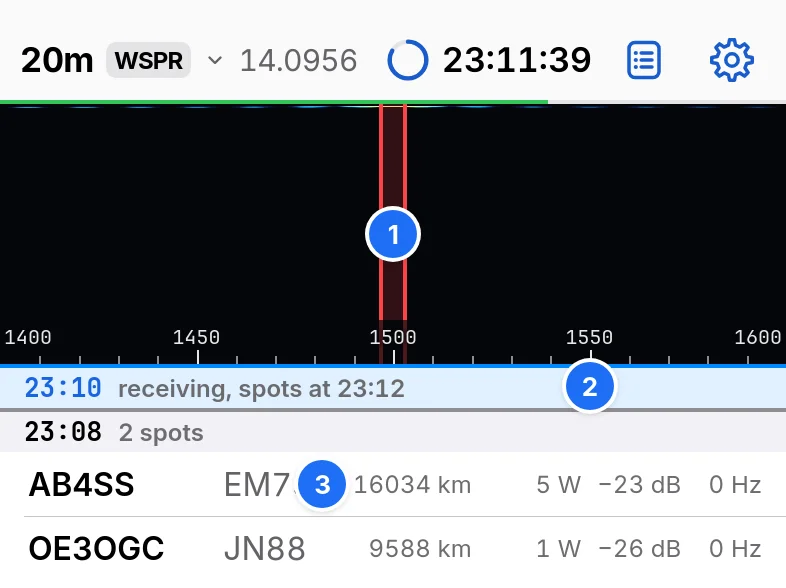
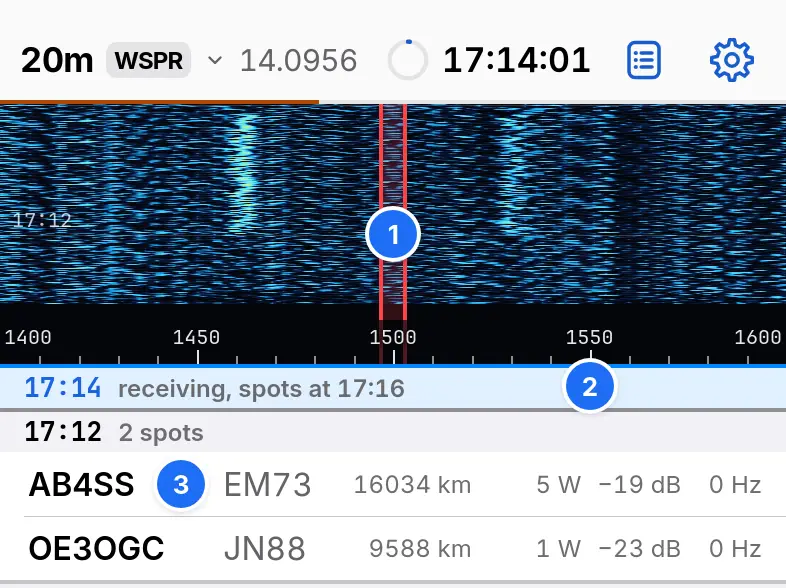
Fill the guide's Operate and WSPR waterfalls with played signals
The e2e hook playStations plays FT8 and WSPR messages through the practice input, so the screenshots show real traces. Guide images may now reach 64 kB, and the precache budget rises to 3.7 MB.

diff --git a/web/e2e/guide-shots.spec.ts b/web/e2e/guide-shots.spec.ts
@@ -18,7 +18,7 @@ const IMG = fileURLToPath(new URL('../../docs/guide/img/', import.meta.url));
 /** The same captures as PNG, without circles, for choosing where they go. */
 const RAW = fileURLToPath(new URL('../test-results/screens/guide-raw/', import.meta.url));
 /** The largest file the guide takes, bytes (guide.test.ts). */
-const MAX_BYTES = 40_000;
+const MAX_BYTES = 64_000;
 
 const STATION = { callsign: '9V1NE', grid: 'OJ11', freqPicked: true };
 
@@ -213,16 +213,24 @@ test('Making QSOs: the transmit controls and status line in a QSO under way', as
 });
 
 test('Operate: the waterfall and the decode list', async ({ page }) => {
-  test.setTimeout(120_000);
+  test.setTimeout(180_000);
   await openApp(page, '#/operate', { txHz: 1500, rxHz: 1840 });
+  // The stations play through the practice band's audio path: the waterfall shows their traces
+  // and the decoder decodes them.
+  await page.evaluate(
+    ([even, odd]) =>
+      window.__rr73!.playStations([
+        ...even.map((x) => ({ text: x.text, freqHz: x.freq_hz, snrDb: x.snr_db, dtS: x.dt_s, parity: 'even' as const })),
+        ...odd.map((x) => ({ text: x.text, freqHz: x.freq_hz, snrDb: x.snr_db, dtS: x.dt_s, parity: 'odd' as const })),
+      ]),
+    [SLOT_EVEN, SLOT_ODD] as const,
+  );
   await startAudio(page);
-  // A few seconds of waterfall from the mock microphone, then the decodes.
-  await page.waitForTimeout(6000);
-  const now = await phase(page, 2, 10);
-  await inject(page, now - 2 * SLOT, SLOT_EVEN);
-  await inject(page, now - SLOT, SLOT_ODD);
   const toYou = rowOf(page, '9V1NE OE3OGC JN88');
-  await expect(toYou).toBeVisible();
+  await expect(toYou).toBeVisible({ timeout: 90_000 });
+  await expect(rowOf(page, 'OE3OGC 9V1DE OJ11')).toBeVisible({ timeout: 40_000 });
+  // One more slot, so the waterfall holds both parities' traces.
+  await page.waitForTimeout(16_000);
   const list = page.getByTestId('decode-list');
   await list.evaluate((el) => el.scrollTo({ top: 0 }));
   const top = await topOf(page.getByRole('button', { name: /^Change band/ }));
@@ -234,7 +242,7 @@ test('Operate: the waterfall and the decode list', async ({ page }) => {
     mid(rowOf(page, 'CQ AB4SS EM73'), 0.55),
     { target: page.getByRole('radio', { name: /^All/ }), fx: 1, fy: 0, dx: -2, dy: -2 },
     { target: page.getByRole('button', { name: 'Save slot' }), fx: 0, fy: 0, dx: 2, dy: -2 },
-  ]);
+  ], 0.8);
 });
 
 test('Getting started: Change band', async ({ page }) => {
@@ -317,24 +325,25 @@ test('Contest exchange: the exchange and what goes out', async ({ page }) => {
 });
 
 test('WSPR: spots and the beacon', async ({ page }) => {
+  test.setTimeout(420_000);
   await openApp(page, '#/operate', { mode: 'WSPR' });
+  // 2 stations transmit through the practice band's audio path; the decoder finds them after the
+  // 2 min slot.
+  await page.evaluate(() =>
+    window.__rr73!.playStations([
+      { text: 'AB4SS EM73 37', freqHz: 1462, snrDb: -20 },
+      { text: 'OE3OGC JN88 30', freqHz: 1531, snrDb: -23 },
+    ]),
+  );
   await startAudio(page);
-  await page.waitForTimeout(4000);
-  const slot = Math.floor(Date.now() / 120_000) * 120_000;
-  const spots = [
-    ['AB4SS', 'EM73', 37, -23, 1462],
-    ['OE3OGC', 'JN88', 30, -26, 1531],
-  ] as const;
-  const decodes = spots.map(([call, grid, dbm, snr, hz]) => ({ text: `${call} ${grid} ${dbm}`, freq_hz: hz, dt_s: 0.2, drift_hz_per_s: 0, snr_db: snr }));
-  await page.evaluate(([s, ds]) => window.__rr73!.wsprDecoded(s as number, ds as never), [slot - 120_000, decodes] as const);
-  await page.waitForTimeout(500);
   const list = page.getByTestId('spot-list');
   const rows = list.locator('button.sr');
+  await expect(rows).toHaveCount(2, { timeout: 360_000 });
   const top = await topOf(page.getByRole('button', { name: /^Change band/ }));
   await save(page, 'wspr', band(page, top - 8, (await bottomOf(rows.last())) + 4), [
     mid(page.getByTestId('tx-marker')),
     mid(list.locator('.slot-bar, .sbar').first(), 0.75),
-    mid(rows.first(), 0.41),
+    mid(rows.first(), 0.23),
   ]);
 });
 

diff --git a/web/src/lib/testing/e2e-hooks.ts b/web/src/lib/testing/e2e-hooks.ts
@@ -11,7 +11,10 @@ import type { Decode } from '../decode/types';
 import type { TxNum } from '../qso/messages';
 import { qso } from '../state/qso.svelte';
 import { settings, updateSettings, type Settings, type Theme } from '../state/settings.svelte';
-import { audio, audioOut, band, deliverDecodes, deliverEarly, deliverWspr, noteHeardBack, onAudioChunk, txClockFixS } from '../state/station.svelte';
+import { audio, audioOut, band, codec, deliverDecodes, deliverEarly, deliverWspr, noteHeardBack, onAudioChunk, setInputSource, txClockFixS } from '../state/station.svelte';
+import { PracticeInput } from '../practice/source';
+import { amplitudeFor } from '../practice/render';
+import { SLOT_RATE, parity as parityOf, type FtMode } from '../clock/slots';
 import { isFt } from '../clock/slots';
 import type { WsprDecode } from '../wspr/spots';
 import { TX_SECONDS } from '../wspr/schedule';
@@ -71,6 +74,13 @@ export interface E2eHooks {
   /** Changes settings as the operator would. */
   settings(patch: Partial<Settings>): Promise<void>;
   /** The audio status and the FT8 and FT4 slots in the decode list, newest first, with their decode times, ms. */
+  /**
+   * Replaces the input with a band of fixed stations for screenshots: each FT8 or FT4 station sends
+   * its message in every slot of its parity, and each WSPR station from 1 s into every even
+   * minute, through the practice band's audio path, so the waterfall shows them and the decoder
+   * decodes them. Start audio after calling it.
+   */
+  playStations(stations: { text: string; freqHz: number; snrDb: number; dtS?: number; parity?: 'even' | 'odd' }[]): void;
   station(): { audio: string; onAirStartMs: number | null; slots: { startUtcMs: number; decodes: number; ms: number; skipped: boolean; early: boolean }[] };
 }
 
@@ -144,6 +154,34 @@ export function installE2eHooks() {
     },
     wavelogCheck: () => checkWavelogNow(),
     settings: (patch) => updateSettings(patch),
+    playStations: (stations) => {
+      const ft = () => (isFt(settings.mode) ? (settings.mode as FtMode) : 'FT8');
+      const playedWspr = new Set<number>();
+      setInputSource(
+        new PracticeInput(
+          {
+            active: () => isFt(settings.mode),
+            mode: ft,
+            signals: (startMs) =>
+              stations
+                .filter((st) => !st.parity || st.parity === parityOf(startMs, ft()))
+                .map((st) => ({ call: st.text.split(' ')[1] ?? st.text, text: st.text, freqHz: st.freqHz, dtS: st.dtS ?? 0.1, snrDb: st.snrDb, fading: null })),
+            synth: (text, mode, f0Hz) => codec().synthesize(text, mode, f0Hz, SLOT_RATE),
+          },
+          undefined,
+          undefined,
+          {
+            due: (nowMs) => {
+              if (settings.mode !== 'WSPR') return [];
+              const slot = Math.floor(nowMs / 120_000) * 120_000;
+              if (nowMs - slot < 900 || nowMs - slot > 1600 || playedWspr.has(slot)) return [];
+              playedWspr.add(slot);
+              return stations.map((st) => ({ samples: codec().synthesize(st.text, 'WSPR', st.freqHz, SLOT_RATE), amplitude: amplitudeFor(st.snrDb) }));
+            },
+          },
+        ),
+      );
+    },
     station: () => ({
       audio: audio.status,
       onAirStartMs: qso.onAir?.startMs ?? null,

diff --git a/web/e2e/service-worker.spec.ts b/web/e2e/service-worker.spec.ts
@@ -34,9 +34,9 @@ test('the precache holds the app, the decoder and the country file, and stays sm
   expect(urls.filter((u) => u.startsWith('data/')).sort()).toEqual(data.sort());
   const bytes = urls.reduce((n, u) => n + statSync(`${DIST}${u}`).size, 0);
   test.info().annotations.push({ type: 'precache', description: `${urls.length} files, ${(bytes / 1e6).toFixed(2)} MB` });
-  // 3.6 MB: the decoder with experiment 0012's retries and the 3 bundled fonts (121 kB) came to
-  // 3.02 MB, and the guide's 13 screenshots (docs/guide/img) add 0.42 MB.
-  expect(bytes).toBeLessThan(3.6e6);
+  // 3.7 MB: the decoder with experiment 0012's retries and the 3 bundled fonts (121 kB) came to
+  // 3.02 MB, and the guide's 13 screenshots (docs/guide/img) add 0.48 MB.
+  expect(bytes).toBeLessThan(3.7e6);
 });
 
 test.describe('in the browser', () => {

diff --git a/web/src/lib/app/guide.test.ts b/web/src/lib/app/guide.test.ts
@@ -159,7 +159,7 @@ describe('docs/guide', () => {
     expect(broken).toEqual([]);
   });
 
-  it('shows only images that exist in docs/guide/img, each under 40 kB, each with alt text', () => {
+  it('shows only images that exist in docs/guide/img, each under 64 kB, each with alt text', () => {
     const missing: string[] = [];
     const used = new Set<string>();
     for (const p of pages)
@@ -169,7 +169,7 @@ describe('docs/guide', () => {
             used.add(b.src);
             const file = new URL(b.src, dir);
             if (!existsSync(file)) missing.push(`${p.slug} → ${b.src}`);
-            else expect(statSync(file).size, b.src).toBeLessThan(40_000);
+            else expect(statSync(file).size, b.src).toBeLessThan(64_000);
             expect(b.alt, b.src).not.toBe('');
           }
     expect(missing).toEqual([]);

diff --git a/docs/testing.md b/docs/testing.md
@@ -29,7 +29,7 @@ CI runs the suite on two machines: `RR73_E2E_PART=transmit` runs the transmit an
 - `review-375x667` and `review-393x852` run every layout test in both themes, `layout.spec.ts` and `colours-layout.spec.ts` in Sun as well, and `states.spec.ts`, which walks Operate through receiving, CQ, calling, a QSO and Repeat CQ with real transmissions. They save the screens to `web/test-results/screens` (Operate states in `screens/states`, decode colours in `screens/colours`), named by size, theme and screen, such as `webkit-375x667-dark-log.png`. A run took 4.9 min with 5 workers on a 10-core machine (186 tests, 204 screens), most of it the 4 runs of `states.spec.ts`, 2.3 to 2.6 min each, which wait for real slots.
 - `slot-record` checks the lost-audio measure behind the decode test's skip (below).
 - `walkthrough` (an iPhone at 393 x 852), `walkthrough-ipad` (1180 x 820) and `walkthrough-desktop` (1440 x 900), all WebKit, take the README's screenshots from the practice band in real time: FT8 receiving and in a QSO, Hound working the practice Fox, WSPR and RTTY (`walkthrough.spec.ts`). They save to `test-results/screens/walkthrough` at the repository root. For `docs/screenshots` they are rendered with SF Pro and SF Mono from a Mac, mounted read-only into the e2e image with a fontconfig file that maps the system font names to them, and scaled to half size; Apple's licence keeps the fonts out of the repository. The Log, activation, Heard you and Settings screenshots come from `review-393x852`.
-- `guide-shots` and `guide-review` run with `RR73_GUIDE_SHOTS=1` only, never in CI. `guide-shots` (WebKit, 393 x 852, light) sets up Operate with the e2e hooks, adds the numbered circles and writes the guide's annotated screenshots to `docs/guide/img/*.webp`, each under 40 kB (`guide-shots.spec.ts`). The numbered list under each image in the Markdown is its legend, so a change to the circles changes the list with it. `guide-review` saves the guide's pages, the top of Settings and Operate on first start in both themes to `web/test-results/screens/guide`. Regenerate the images with `RR73_GUIDE_SHOTS=1 docker compose run --rm e2e npx --prefix web playwright test --project guide-shots` and commit them.
+- `guide-shots` and `guide-review` run with `RR73_GUIDE_SHOTS=1` only, never in CI. `guide-shots` (WebKit, 393 x 852, light) sets up Operate with the e2e hooks, adds the numbered circles and writes the guide's annotated screenshots to `docs/guide/img/*.webp`, each under 64 kB (`guide-shots.spec.ts`). The numbered list under each image in the Markdown is its legend, so a change to the circles changes the list with it. `guide-review` saves the guide's pages, the top of Settings and Operate on first start in both themes to `web/test-results/screens/guide`. Regenerate the images with `RR73_GUIDE_SHOTS=1 docker compose run --rm e2e npx --prefix web playwright test --project guide-shots` and commit them.
 - `review-820x1180`, `review-1180x820`, `review-1440x900` (WebKit), `review-1440x900-chromium` and `review-852x393` run `large.spec.ts` in both themes and save Operate receiving and in a QSO, the Log with a QSO open, Settings, the station details, band and keyboard shortcuts sheets, WSPR and Spots to `web/test-results/screens/large`, for the side-by-side review with the approved mockup (docs/decisions/0008-large-screens.md). A run took about 2 min with 5 workers.
 
 `e2e/operate.spec.ts` keeps the checks from `states.spec.ts` that CI needs, with decodes injected and no transmission: one bottom bar height in every state, the decode rows on screen, messages to you leading their slot, the dimming of unrelated rows while calling or in a QSO (and none while calling CQ, after End QSO or with Tx off), and a run of empty slots as one bar. The review projects also run it, which saves the empty-slot run in both themes at both sizes.

diff --git a/CHANGELOG.md b/CHANGELOG.md
@@ -2,6 +2,10 @@
 
 User-visible changes to RR73, newest first. Each release is tagged `v<version>` with the same notes. The app shows this file as Version history.
 
+## Unreleased
+
+- The guide's Operate and WSPR screenshots show live signals on the waterfall.
+
 ## 0.27.7 · 2026-10-24
 
 - Guide is the first row of Settings, and Operate's empty decode list links to Getting started until a callsign is set.
